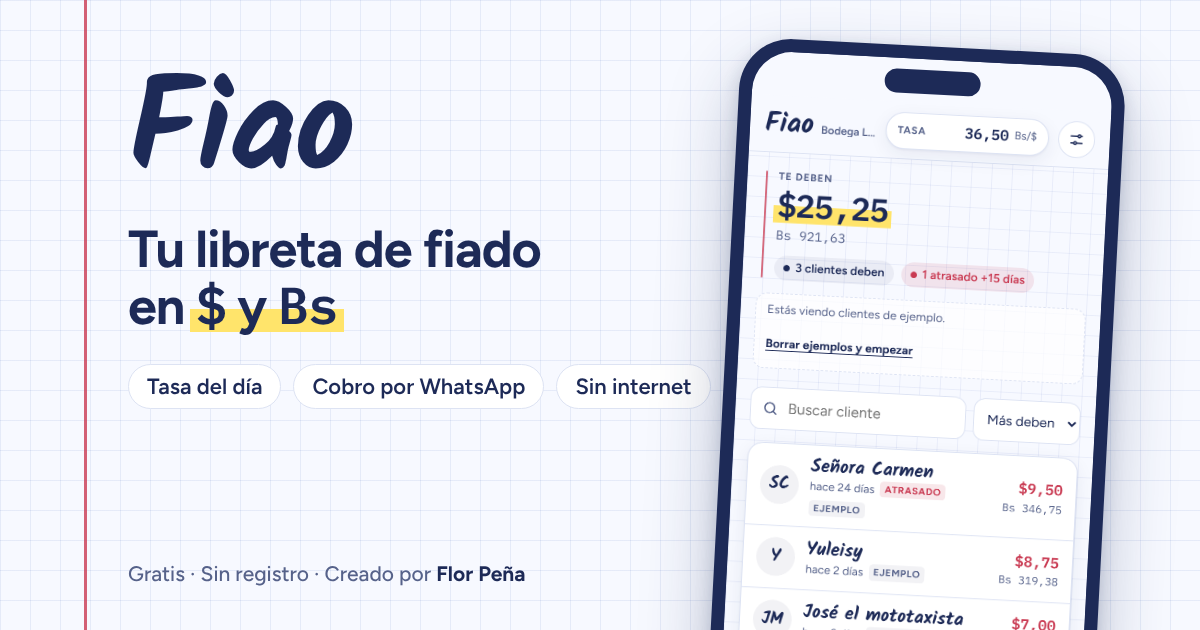
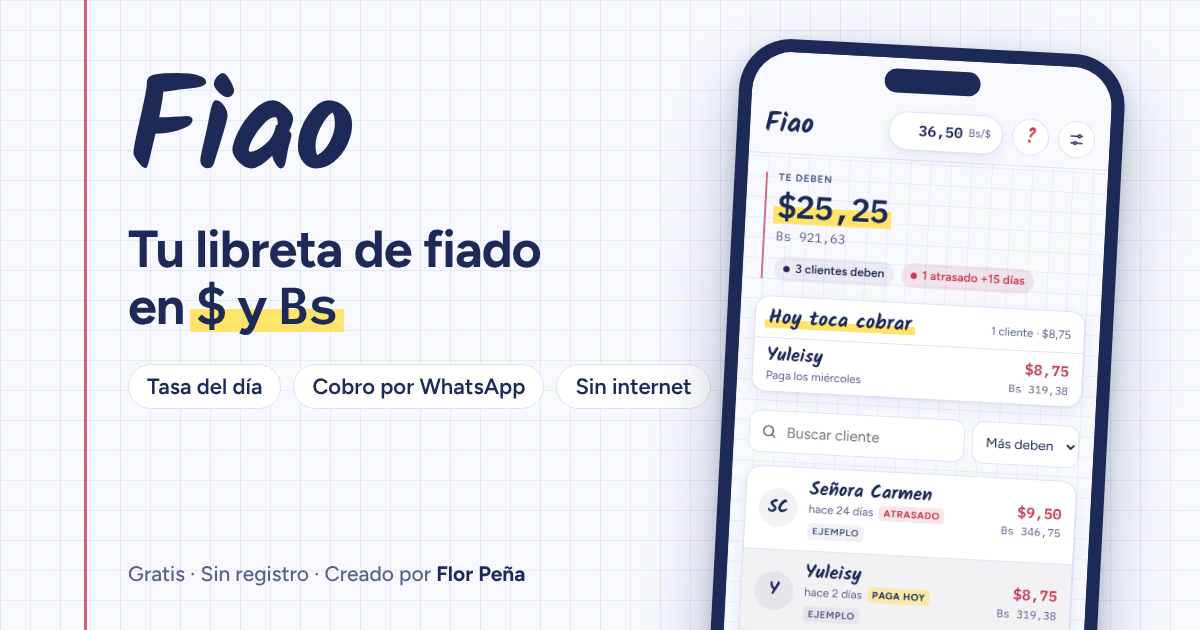
Auditoría final: pie centrado, accesibilidad, rendimiento, SEO e imágenes
- Pie de página centrado en todas las pantallas
- Toda la cápsula de la tasa es tocable (objetivo táctil adecuado)
- 'Hoy toca cobrar' legible en modo oscuro
- Ventanas con letra grande caben en pantallas pequeñas
- Sin saltos de diseño al cargar (CLS 0)
- Escritorio: el botón Fiar ya no tapa el último movimiento
- Bienvenida con texto neutral
- SEO: descripción de 147 caracteres, Open Graph y funciones actualizadas
- Imagen para compartir y capturas de instalación con la interfaz actual

Lighthouse: 100 en rendimiento, accesibilidad, buenas prácticas y SEO (móvil y escritorio)

Claude-Session: https://claude.ai/code/session_01XRuaHFwCRaKQvRcGVifeGW

diff --git a/src/app.html b/src/app.html
@@ -52,9 +52,9 @@ button{cursor:pointer;touch-action:manipulation}
   border-bottom:1px solid var(--line);display:flex;align-items:center;gap:10px}
 .brand{margin:0;font-family:var(--f-hand);font-weight:700;font-size:30px;line-height:1;display:flex;align-items:baseline;gap:8px;min-width:0}
 .brand small{font-family:var(--f-body);font-weight:600;font-size:12px;color:var(--muted);white-space:nowrap;overflow:hidden;text-overflow:ellipsis;max-width:160px}
-.rate{margin-left:auto;display:flex;align-items:center;gap:6px;background:var(--surface);border:1px solid var(--line);border-radius:999px;padding:4px 6px 4px 12px;box-shadow:var(--shadow);min-height:40px}
-.rate label{font-size:11px;font-weight:700;letter-spacing:.06em;text-transform:uppercase;color:var(--muted)}
-.rate input{width:84px;border:0;background:transparent;font-family:var(--f-num);font-weight:600;font-size:16px;text-align:right;padding:2px 0}
+.rate{cursor:text;margin-left:auto;display:flex;align-items:center;gap:6px;background:var(--surface);border:1px solid var(--line);border-radius:999px;padding:4px 6px 4px 12px;box-shadow:var(--shadow);min-height:40px}
+.rate .rate-l{font-size:11px;font-weight:700;letter-spacing:.06em;text-transform:uppercase;color:var(--muted)}
+.rate input{width:84px;border:0;background:transparent;font-family:var(--f-num);font-weight:600;font-size:16px;text-align:right;padding:2px 0;min-height:32px}
 .rate input:focus{outline:none}
 .rate:focus-within{border-color:var(--ink)}
 .rate .unit{font-size:12px;color:var(--muted);padding-right:6px}
@@ -63,6 +63,7 @@ button{cursor:pointer;touch-action:manipulation}
 .iconbtn svg{width:18px;height:18px;stroke:var(--ink)}
 
 /* Paneles */
+#app{min-height:100vh;min-height:100dvh}
 .shell{display:block}
 .shell.show-detail .pane-list{display:none}
 .shell:not(.show-detail) .pane-detail{display:none}
@@ -183,8 +184,9 @@ select.sort{border:1px solid var(--line);background:var(--surface);border-radius
 /* Acerca de (texto fijo, también útil para buscadores) */
 .about{max-width:560px;margin:0 auto;padding:8px max(16px,env(safe-area-inset-right,0px)) 8px max(16px,env(safe-area-inset-left,0px));color:var(--muted);font-size:14px}
 .credit{max-width:560px;margin:0 auto;padding:14px max(16px,env(safe-area-inset-right,0px)) calc(104px + env(safe-area-inset-bottom,0px)) max(16px,env(safe-area-inset-left,0px));font-size:13px;color:var(--muted)}
-.credit p{margin:0;padding-top:14px;border-top:1px solid var(--line)}
+.credit p{margin:0;padding-top:14px;border-top:1px solid var(--line);text-align:center;text-wrap:balance}
 .credit p.credit-mail{border-top:0;padding-top:6px}
+.credit a{overflow-wrap:anywhere}
 .mail{color:var(--ink);overflow-wrap:anywhere;user-select:all}
 .credit strong{color:var(--ink);font-weight:700}
 .credit a{color:var(--ink);font-weight:600;text-underline-offset:3px}
@@ -325,8 +327,8 @@ button.mov:hover{background:var(--ink-soft)}
 .alert-btns .btn{flex:1 1 140px;min-height:44px}
 .rate.stale{border-color:var(--margin);box-shadow:0 0 0 3px color-mix(in srgb,var(--margin) 18%,transparent)}
 .today{margin-top:16px;background:var(--surface);border:1px solid var(--line);border-radius:16px;box-shadow:var(--shadow);overflow:hidden}
-.today-head{display:flex;justify-content:space-between;align-items:baseline;gap:8px;padding:12px 14px 8px;background:color-mix(in srgb,var(--hi) 22%,var(--surface))}
-.today-head b{font-family:var(--f-hand);font-size:22px;line-height:1.1}
+.today-head{display:flex;justify-content:space-between;align-items:baseline;gap:8px;flex-wrap:wrap;padding:12px 14px 8px;border-bottom:1px solid var(--line)}
+.today-head b{font-family:var(--f-hand);font-size:22px;line-height:1.1;background:linear-gradient(transparent 55%,var(--mark) 55%,var(--mark) 92%,transparent 92%);padding:0 4px;margin:0 -4px}
 .today-head span{font-size:12.5px;color:var(--muted)}
 .today .row{min-height:56px;padding:8px 14px;grid-template-columns:minmax(0,1fr) auto}
 .tag.pay{color:var(--ink);background:color-mix(in srgb,var(--hi) 55%,transparent)}
@@ -349,11 +351,12 @@ button.mov:hover{background:var(--ink-soft)}
 .switch input:checked{background:var(--ok)}
 .switch input:checked::after{transform:translateX(20px)}
 .switch input:focus-visible{outline:2.5px solid var(--margin);outline-offset:2px}
+body.big .sheet{max-height:80vh;max-height:80dvh}
 body.big .app,body.big .guide,body.big .about,body.big .credit,body.big #layer,body.big .toast{zoom:1.14}
 @media (max-width:999px){body.in-detail .fab{display:none}}
 
 @media (prefers-reduced-motion:reduce){.sheet{animation:none}.switch input,.switch input::after{transition:none}}
-@media (max-width:440px){.brand small{display:none}.rate label{display:none}.rate{padding-left:10px}.rate input{width:70px}.helpbtn .t{display:none}.helpbtn{padding:0}.helpbtn{justify-content:center}}
+@media (max-width:440px){.brand small{display:none}.rate .rate-l{display:none}.rate{padding-left:10px}.rate input{width:70px}.helpbtn .t{display:none}.helpbtn{padding:0}.helpbtn{justify-content:center}}
 
 /* Tablet */
 @media (min-width:700px){
@@ -374,7 +377,7 @@ body.big .app,body.big .guide,body.big .about,body.big .credit,body.big #layer,b
   body.in-detail .guide{display:block}
   .shell{display:grid;grid-template-columns:minmax(340px,420px) minmax(0,1fr);gap:32px;align-items:start}
   .shell .pane-list,.shell .pane-detail{display:block!important}
-  .pane-detail{position:sticky;top:calc(env(safe-area-inset-top,0px) + var(--head-h) + 16px);max-height:calc(100vh - var(--head-h) - 32px);overflow:auto;padding:4px 6px 24px;margin-top:14px;scrollbar-width:thin}
+  .pane-detail{position:sticky;top:calc(env(safe-area-inset-top,0px) + var(--head-h) + 16px);max-height:calc(100vh - var(--head-h) - 32px);overflow:auto;padding:4px 6px 96px;margin-top:14px;scrollbar-width:thin}
   .back{display:none}
   .placeholder{display:block;margin-top:40px;text-align:center;color:var(--muted)}
   .placeholder b{display:block;font-family:var(--f-hand);font-size:28px;color:var(--ink)}
@@ -659,11 +662,11 @@ const I={
 function headerHTML(){
   return `<header class="top">
     <h1 class="brand">Fiao<small>${esc(db.negocio||"Mi negocio")}</small></h1>
-    <div class="rate${tasaStale()?" stale":""}" title="Tasa del día: bolívares por dólar">
-      <label for="tasa">Tasa</label>
+    <label class="rate${tasaStale()?" stale":""}" for="tasa" title="Tasa del día: bolívares por dólar">
+      <span class="rate-l" aria-hidden="true">Tasa</span>
       <input id="tasa" inputmode="decimal" enterkeyhint="done" value="${f2.format(db.tasa||0)}" aria-label="Tasa del día en bolívares por dólar">
       <span class="unit">Bs/$</span>
-    </div>
+    </label>
     <button class="helpbtn" id="ayuda" aria-label="Cómo se usa"><span class="q" aria-hidden="true">?</span><span class="t">Ayuda</span></button>
     <button class="iconbtn" id="ajustes" aria-label="Ajustes y respaldo">${I.cog}</button>
   </header>`;
@@ -845,7 +848,7 @@ function renderWelcome(){
   const prog=st>0?`<div class="wel-progress"><span class="eyebrow">Paso ${st} de 3</span><div class="bars" aria-hidden="true">${[1,2,3].map(i=>`<span class="${i<=st?"on":""}"></span>`).join("")}</div></div>`:"";
   let body="";
   if(st===0){
-    body=`<h2>Bienvenida a tu libreta de fiado</h2>
+    body=`<h2>Te damos la bienvenida a tu libreta de fiado</h2>
       <p class="lead">Fiao lleva la cuenta de lo que te deben, en dólares y en bolívares. La dejamos lista en tres pasos.</p>
       <ul class="wel-points">
         <li><span>1</span><div>El nombre de tu negocio</div></li>

diff --git a/public/app.css b/public/app.css
@@ -52,9 +52,9 @@ button{cursor:pointer;touch-action:manipulation}
   border-bottom:1px solid var(--line);display:flex;align-items:center;gap:10px}
 .brand{margin:0;font-family:var(--f-hand);font-weight:700;font-size:30px;line-height:1;display:flex;align-items:baseline;gap:8px;min-width:0}
 .brand small{font-family:var(--f-body);font-weight:600;font-size:12px;color:var(--muted);white-space:nowrap;overflow:hidden;text-overflow:ellipsis;max-width:160px}
-.rate{margin-left:auto;display:flex;align-items:center;gap:6px;background:var(--surface);border:1px solid var(--line);border-radius:999px;padding:4px 6px 4px 12px;box-shadow:var(--shadow);min-height:40px}
-.rate label{font-size:11px;font-weight:700;letter-spacing:.06em;text-transform:uppercase;color:var(--muted)}
-.rate input{width:84px;border:0;background:transparent;font-family:var(--f-num);font-weight:600;font-size:16px;text-align:right;padding:2px 0}
+.rate{cursor:text;margin-left:auto;display:flex;align-items:center;gap:6px;background:var(--surface);border:1px solid var(--line);border-radius:999px;padding:4px 6px 4px 12px;box-shadow:var(--shadow);min-height:40px}
+.rate .rate-l{font-size:11px;font-weight:700;letter-spacing:.06em;text-transform:uppercase;color:var(--muted)}
+.rate input{width:84px;border:0;background:transparent;font-family:var(--f-num);font-weight:600;font-size:16px;text-align:right;padding:2px 0;min-height:32px}
 .rate input:focus{outline:none}
 .rate:focus-within{border-color:var(--ink)}
 .rate .unit{font-size:12px;color:var(--muted);padding-right:6px}
@@ -63,6 +63,7 @@ button{cursor:pointer;touch-action:manipulation}
 .iconbtn svg{width:18px;height:18px;stroke:var(--ink)}
 
 /* Paneles */
+#app{min-height:100vh;min-height:100dvh}
 .shell{display:block}
 .shell.show-detail .pane-list{display:none}
 .shell:not(.show-detail) .pane-detail{display:none}
@@ -183,8 +184,9 @@ select.sort{border:1px solid var(--line);background:var(--surface);border-radius
 /* Acerca de (texto fijo, también útil para buscadores) */
 .about{max-width:560px;margin:0 auto;padding:8px max(16px,env(safe-area-inset-right,0px)) 8px max(16px,env(safe-area-inset-left,0px));color:var(--muted);font-size:14px}
 .credit{max-width:560px;margin:0 auto;padding:14px max(16px,env(safe-area-inset-right,0px)) calc(104px + env(safe-area-inset-bottom,0px)) max(16px,env(safe-area-inset-left,0px));font-size:13px;color:var(--muted)}
-.credit p{margin:0;padding-top:14px;border-top:1px solid var(--line)}
+.credit p{margin:0;padding-top:14px;border-top:1px solid var(--line);text-align:center;text-wrap:balance}
 .credit p.credit-mail{border-top:0;padding-top:6px}
+.credit a{overflow-wrap:anywhere}
 .mail{color:var(--ink);overflow-wrap:anywhere;user-select:all}
 .credit strong{color:var(--ink);font-weight:700}
 .credit a{color:var(--ink);font-weight:600;text-underline-offset:3px}
@@ -325,8 +327,8 @@ button.mov:hover{background:var(--ink-soft)}
 .alert-btns .btn{flex:1 1 140px;min-height:44px}
 .rate.stale{border-color:var(--margin);box-shadow:0 0 0 3px color-mix(in srgb,var(--margin) 18%,transparent)}
 .today{margin-top:16px;background:var(--surface);border:1px solid var(--line);border-radius:16px;box-shadow:var(--shadow);overflow:hidden}
-.today-head{display:flex;justify-content:space-between;align-items:baseline;gap:8px;padding:12px 14px 8px;background:color-mix(in srgb,var(--hi) 22%,var(--surface))}
-.today-head b{font-family:var(--f-hand);font-size:22px;line-height:1.1}
+.today-head{display:flex;justify-content:space-between;align-items:baseline;gap:8px;flex-wrap:wrap;padding:12px 14px 8px;border-bottom:1px solid var(--line)}
+.today-head b{font-family:var(--f-hand);font-size:22px;line-height:1.1;background:linear-gradient(transparent 55%,var(--mark) 55%,var(--mark) 92%,transparent 92%);padding:0 4px;margin:0 -4px}
 .today-head span{font-size:12.5px;color:var(--muted)}
 .today .row{min-height:56px;padding:8px 14px;grid-template-columns:minmax(0,1fr) auto}
 .tag.pay{color:var(--ink);background:color-mix(in srgb,var(--hi) 55%,transparent)}
@@ -349,11 +351,12 @@ button.mov:hover{background:var(--ink-soft)}
 .switch input:checked{background:var(--ok)}
 .switch input:checked::after{transform:translateX(20px)}
 .switch input:focus-visible{outline:2.5px solid var(--margin);outline-offset:2px}
+body.big .sheet{max-height:80vh;max-height:80dvh}
 body.big .app,body.big .guide,body.big .about,body.big .credit,body.big #layer,body.big .toast{zoom:1.14}
 @media (max-width:999px){body.in-detail .fab{display:none}}
 
 @media (prefers-reduced-motion:reduce){.sheet{animation:none}.switch input,.switch input::after{transition:none}}
-@media (max-width:440px){.brand small{display:none}.rate label{display:none}.rate{padding-left:10px}.rate input{width:70px}.helpbtn .t{display:none}.helpbtn{padding:0}.helpbtn{justify-content:center}}
+@media (max-width:440px){.brand small{display:none}.rate .rate-l{display:none}.rate{padding-left:10px}.rate input{width:70px}.helpbtn .t{display:none}.helpbtn{padding:0}.helpbtn{justify-content:center}}
 
 /* Tablet */
 @media (min-width:700px){
@@ -374,7 +377,7 @@ body.big .app,body.big .guide,body.big .about,body.big .credit,body.big #layer,b
   body.in-detail .guide{display:block}
   .shell{display:grid;grid-template-columns:minmax(340px,420px) minmax(0,1fr);gap:32px;align-items:start}
   .shell .pane-list,.shell .pane-detail{display:block!important}
-  .pane-detail{position:sticky;top:calc(env(safe-area-inset-top,0px) + var(--head-h) + 16px);max-height:calc(100vh - var(--head-h) - 32px);overflow:auto;padding:4px 6px 24px;margin-top:14px;scrollbar-width:thin}
+  .pane-detail{position:sticky;top:calc(env(safe-area-inset-top,0px) + var(--head-h) + 16px);max-height:calc(100vh - var(--head-h) - 32px);overflow:auto;padding:4px 6px 96px;margin-top:14px;scrollbar-width:thin}
   .back{display:none}
   .placeholder{display:block;margin-top:40px;text-align:center;color:var(--muted)}
   .placeholder b{display:block;font-family:var(--f-hand);font-size:28px;color:var(--ink)}

diff --git a/public/index.html b/public/index.html
@@ -4,7 +4,7 @@
 <meta charset="utf-8">
 <meta name="viewport" content="width=device-width,initial-scale=1,viewport-fit=cover">
 <title>Fiao · Libreta de fiado en dólares y bolívares</title>
-<meta name="description" content="Cuaderno de fiado digital para bodegas y emprendedores. Anota fiados y abonos en $ y Bs con la tasa del día, ve quién está atrasado y cobra por WhatsApp. Gratis y sin internet.">
+<meta name="description" content="Libreta de fiado para bodegas y emprendedores: fiados y abonos en $ y Bs con la tasa del día, cobros y recibos por WhatsApp. Gratis y sin internet.">
 <meta name="author" content="Flor Peña">
 <meta name="creator" content="Flor Peña">
 <meta name="robots" content="index,follow,max-image-preview:large">
@@ -32,7 +32,7 @@
 <meta property="og:locale" content="es_VE">
 <meta property="og:url" content="https://fiao.vercel.app/">
 <meta property="og:title" content="Fiao · Tu libreta de fiado en $ y Bs">
-<meta property="og:description" content="Anota fiados y abonos con la tasa del día, ve quién está atrasado y cobra por WhatsApp. Gratis, sin registro y sin internet.">
+<meta property="og:description" content="Anota fiados con un toque, cobra por WhatsApp y envía recibos en imagen. Con la tasa del día. Gratis, sin registro y sin internet.">
 <meta property="og:image" content="https://fiao.vercel.app/og.png">
 <meta property="og:image:secure_url" content="https://fiao.vercel.app/og.png">
 <meta property="og:image:type" content="image/png">
@@ -65,9 +65,11 @@
   "creator": { "@type": "Person", "name": "Flor Peña" },
   "featureList": [
     "Saldos en dólares y bolívares con la tasa del día",
-    "Aviso de clientes atrasados",
-    "Mensaje de cobro por WhatsApp",
-    "Funciona sin internet",
+    "Fiado rápido con productos frecuentes",
+    "Estado de cuenta y comprobantes en imagen para WhatsApp",
+    "Día de pago, límite de crédito y lista de quién paga hoy",
+    "Aviso de clientes atrasados y de tasa sin actualizar",
+    "Funciona sin internet y se instala como app",
     "Respaldo en archivo"
   ]
 }
@@ -76,7 +78,7 @@
 <!-- Carga rápida: tipografías propias -->
 <link rel="preload" href="/fonts/figtree-var.woff2" as="font" type="font/woff2" crossorigin>
 <link rel="preload" href="/fonts/kalam-700.woff2" as="font" type="font/woff2" crossorigin>
-<link rel="stylesheet" href="/app.css?v=248981357">
+<link rel="stylesheet" href="/app.css?v=3809197190">
 <!-- Vercel Web Analytics: sin cookies; se activa en el panel de Vercel -->
 <script defer src="/_vercel/insights/script.js"></script>
 </head>
@@ -190,6 +192,6 @@
 </footer>
 <div id="layer"></div>
 
-<script src="/app.js?v=248981357" defer></script>
+<script src="/app.js?v=3809197190" defer></script>
 </body>
 </html>

diff --git a/src/head.html b/src/head.html
@@ -4,7 +4,7 @@
 <meta charset="utf-8">
 <meta name="viewport" content="width=device-width,initial-scale=1,viewport-fit=cover">
 <title>Fiao · Libreta de fiado en dólares y bolívares</title>
-<meta name="description" content="Cuaderno de fiado digital para bodegas y emprendedores. Anota fiados y abonos en $ y Bs con la tasa del día, ve quién está atrasado y cobra por WhatsApp. Gratis y sin internet.">
+<meta name="description" content="Libreta de fiado para bodegas y emprendedores: fiados y abonos en $ y Bs con la tasa del día, cobros y recibos por WhatsApp. Gratis y sin internet.">
 <meta name="author" content="Flor Peña">
 <meta name="creator" content="Flor Peña">
 <meta name="robots" content="index,follow,max-image-preview:large">
@@ -32,7 +32,7 @@
 <meta property="og:locale" content="es_VE">
 <meta property="og:url" content="%SITE_URL%/">
 <meta property="og:title" content="Fiao · Tu libreta de fiado en $ y Bs">
-<meta property="og:description" content="Anota fiados y abonos con la tasa del día, ve quién está atrasado y cobra por WhatsApp. Gratis, sin registro y sin internet.">
+<meta property="og:description" content="Anota fiados con un toque, cobra por WhatsApp y envía recibos en imagen. Con la tasa del día. Gratis, sin registro y sin internet.">
 <meta property="og:image" content="%SITE_URL%/og.png">
 <meta property="og:image:secure_url" content="%SITE_URL%/og.png">
 <meta property="og:image:type" content="image/png">
@@ -65,9 +65,11 @@
   "creator": { "@type": "Person", "name": "Flor Peña" },
   "featureList": [
     "Saldos en dólares y bolívares con la tasa del día",
-    "Aviso de clientes atrasados",
-    "Mensaje de cobro por WhatsApp",
-    "Funciona sin internet",
+    "Fiado rápido con productos frecuentes",
+    "Estado de cuenta y comprobantes en imagen para WhatsApp",
+    "Día de pago, límite de crédito y lista de quién paga hoy",
+    "Aviso de clientes atrasados y de tasa sin actualizar",
+    "Funciona sin internet y se instala como app",
     "Respaldo en archivo"
   ]
 }

diff --git a/public/app.js b/public/app.js
@@ -164,11 +164,11 @@ const I={
 function headerHTML(){
   return `<header class="top">
     <h1 class="brand">Fiao<small>${esc(db.negocio||"Mi negocio")}</small></h1>
-    <div class="rate${tasaStale()?" stale":""}" title="Tasa del día: bolívares por dólar">
-      <label for="tasa">Tasa</label>
+    <label class="rate${tasaStale()?" stale":""}" for="tasa" title="Tasa del día: bolívares por dólar">
+      <span class="rate-l" aria-hidden="true">Tasa</span>
       <input id="tasa" inputmode="decimal" enterkeyhint="done" value="${f2.format(db.tasa||0)}" aria-label="Tasa del día en bolívares por dólar">
       <span class="unit">Bs/$</span>
-    </div>
+    </label>
     <button class="helpbtn" id="ayuda" aria-label="Cómo se usa"><span class="q" aria-hidden="true">?</span><span class="t">Ayuda</span></button>
     <button class="iconbtn" id="ajustes" aria-label="Ajustes y respaldo">${I.cog}</button>
   </header>`;
@@ -350,7 +350,7 @@ function renderWelcome(){
   const prog=st>0?`<div class="wel-progress"><span class="eyebrow">Paso ${st} de 3</span><div class="bars" aria-hidden="true">${[1,2,3].map(i=>`<span class="${i<=st?"on":""}"></span>`).join("")}</div></div>`:"";
   let body="";
   if(st===0){
-    body=`<h2>Bienvenida a tu libreta de fiado</h2>
+    body=`<h2>Te damos la bienvenida a tu libreta de fiado</h2>
       <p class="lead">Fiao lleva la cuenta de lo que te deben, en dólares y en bolívares. La dejamos lista en tres pasos.</p>
       <ul class="wel-points">
         <li><span>1</span><div>El nombre de tu negocio</div></li>

diff --git a/public/sw.js b/public/sw.js
@@ -1,7 +1,7 @@
 // Fiao: guarda la app en el dispositivo para que abra rápido y sin internet.
-const CACHE = "fiao-248981357";
+const CACHE = "fiao-3809197190";
 const CORE = [
-  "/", "/app.css?v=248981357", "/app.js?v=248981357", "/manifest.webmanifest",
+  "/", "/app.css?v=3809197190", "/app.js?v=3809197190", "/manifest.webmanifest",
   "/icon.svg", "/icon-192.png", "/apple-touch-icon.png",
   "/fonts/figtree-var.woff2", "/fonts/kalam-700.woff2", "/fonts/plexmono-400.woff2", "/fonts/plexmono-600.woff2"
 ];
